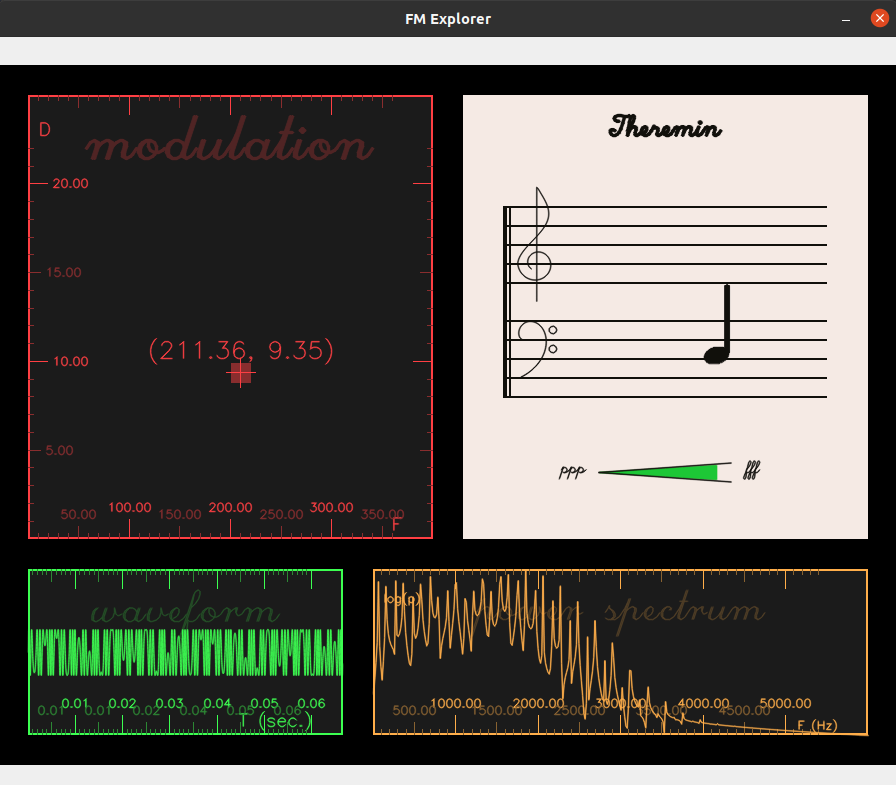
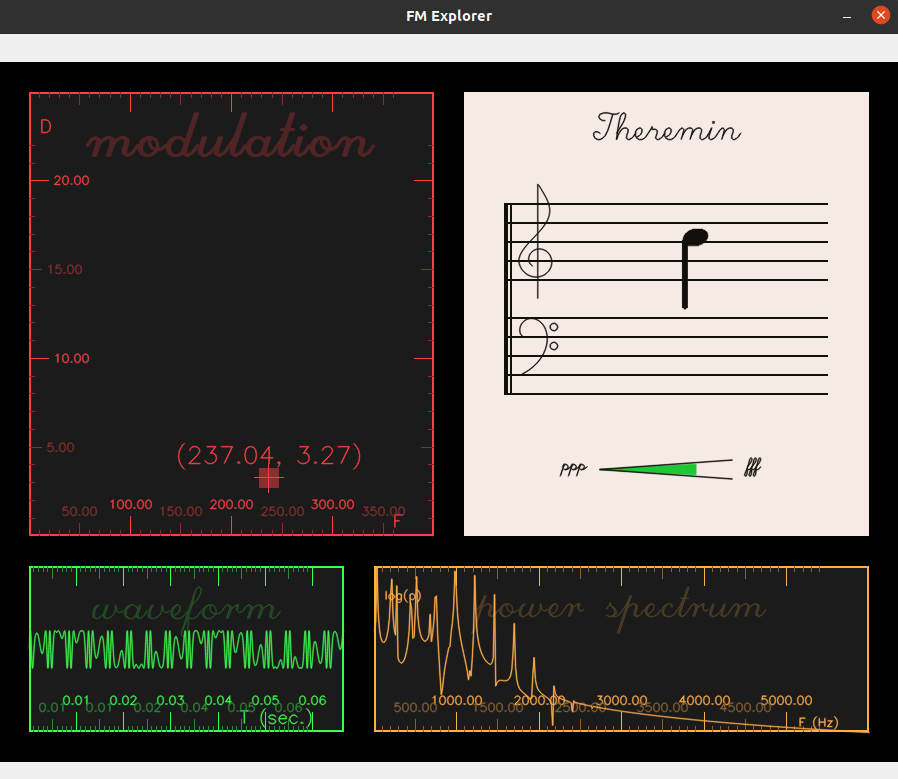
updated title font thickness

diff --git a/staff.py b/staff.py
@@ -25,7 +25,7 @@ LAYOUT = {'staff_v_span': [.25, .7],  # all dims relative to bbox  (unit)
           'wedge_length': 0.33,
           'title': {'txt': 'Theremin',
                     'font': cv2.FONT_HERSHEY_SCRIPT_SIMPLEX,
-                    'font_scale_mult': 1 / 20},  # times note space
+                    'font_scale_mult': 1 / 15},  # times note space
           'dynamics': {'font': cv2.FONT_HERSHEY_SCRIPT_SIMPLEX,
                        'font_scale_mult': 1 / 35},
           'ledger_line_length_mult': 1.5,
@@ -251,7 +251,7 @@ class Staff(Window):
             self._lines[key] = [np.int32(coords * precision_mult) for coords in self._lines[key]]
 
     def _set_text_positions(self):
-        self._title_thickness = max(2, int(self._staff_line_thickness / 2))
+        self._title_thickness = max(1, int(self._staff_line_thickness / 2))
         self._dynamics_thickness = max(1, self._title_thickness - 1)
         self._title_font_scale = self._space * LAYOUT['title']['font_scale_mult']
         self._dynamics_font_scale = self._space * LAYOUT['dynamics']['font_scale_mult']

diff --git a/explore.py b/explore.py
@@ -396,4 +396,4 @@ class FMExplorerApp(object):
 
 if __name__ == "__main__":
     logging.basicConfig(level=logging.INFO)
-    FMExplorerApp((640*2, 320*2))
+    FMExplorerApp((900, 700))
